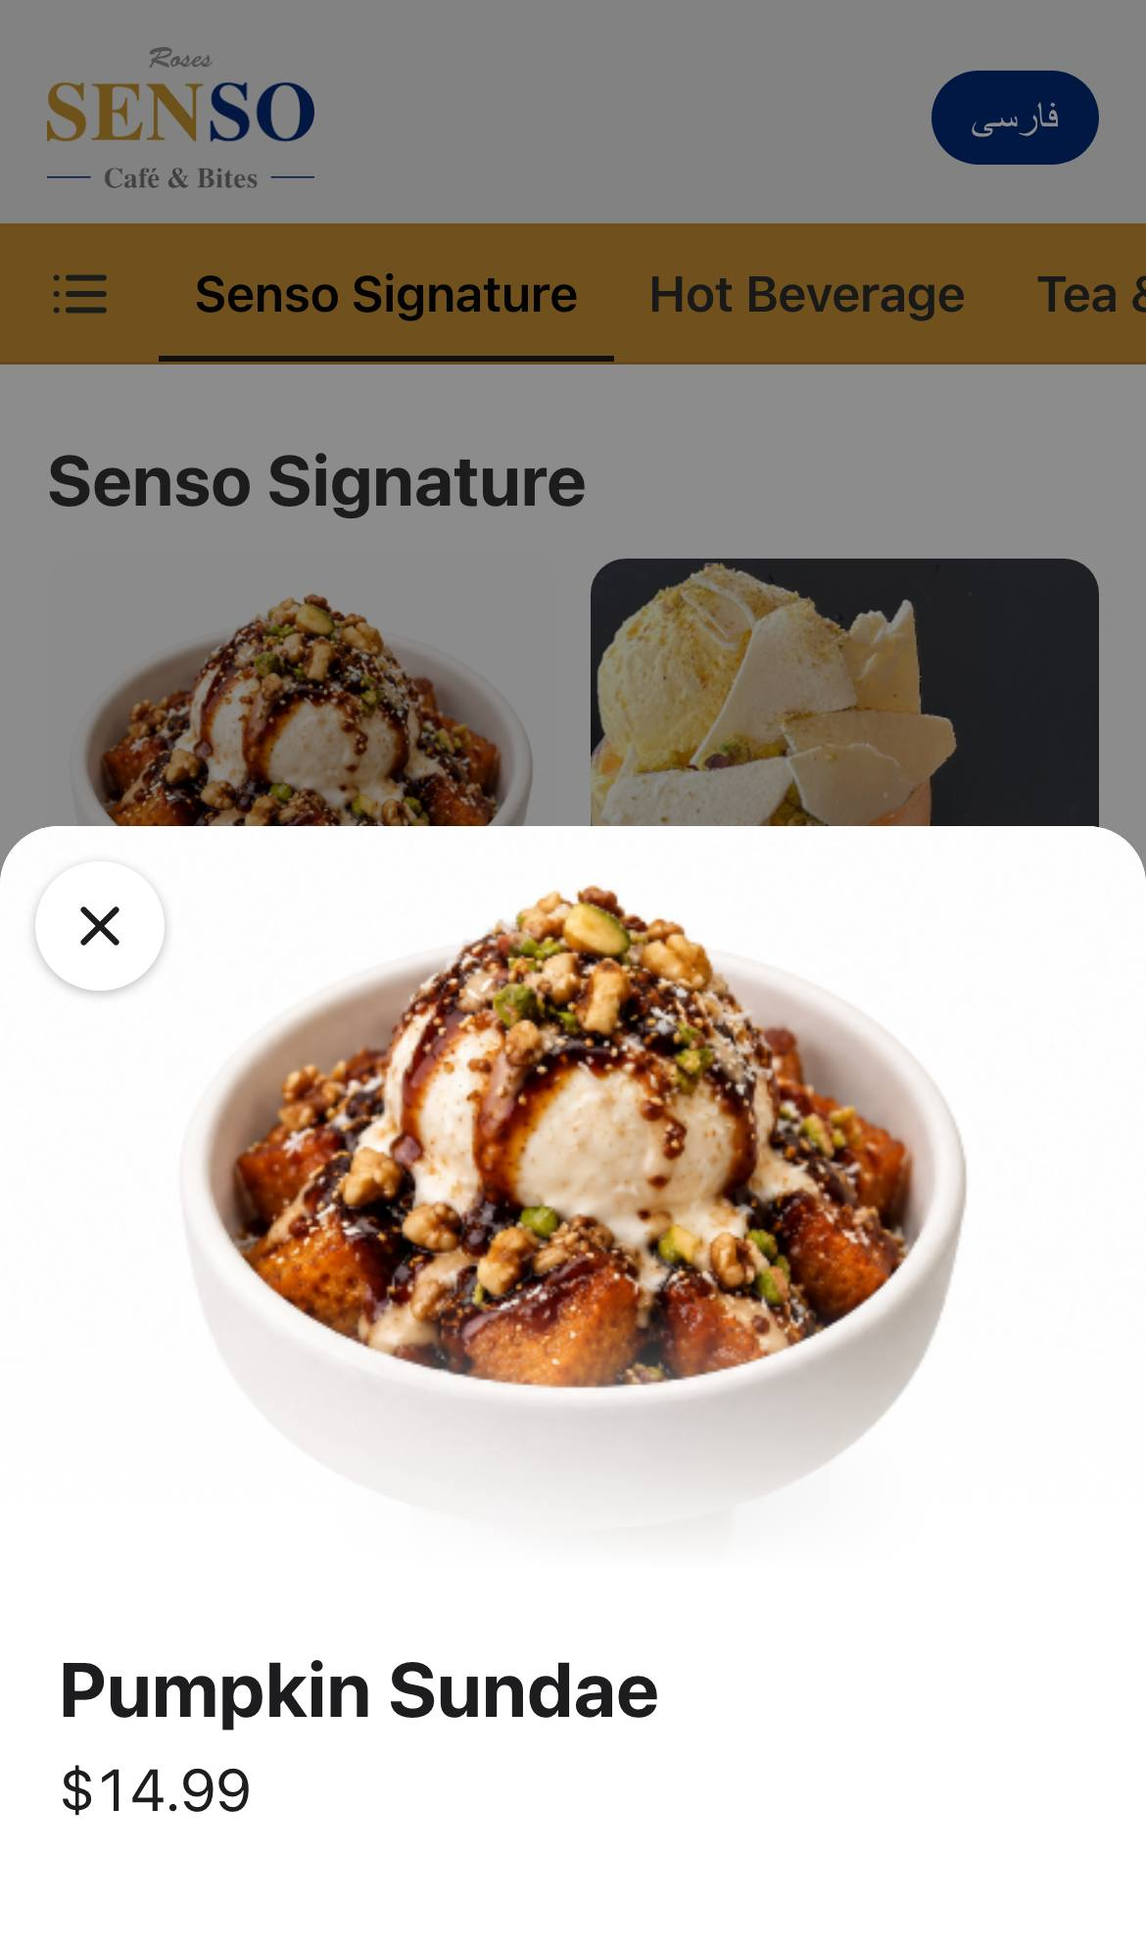
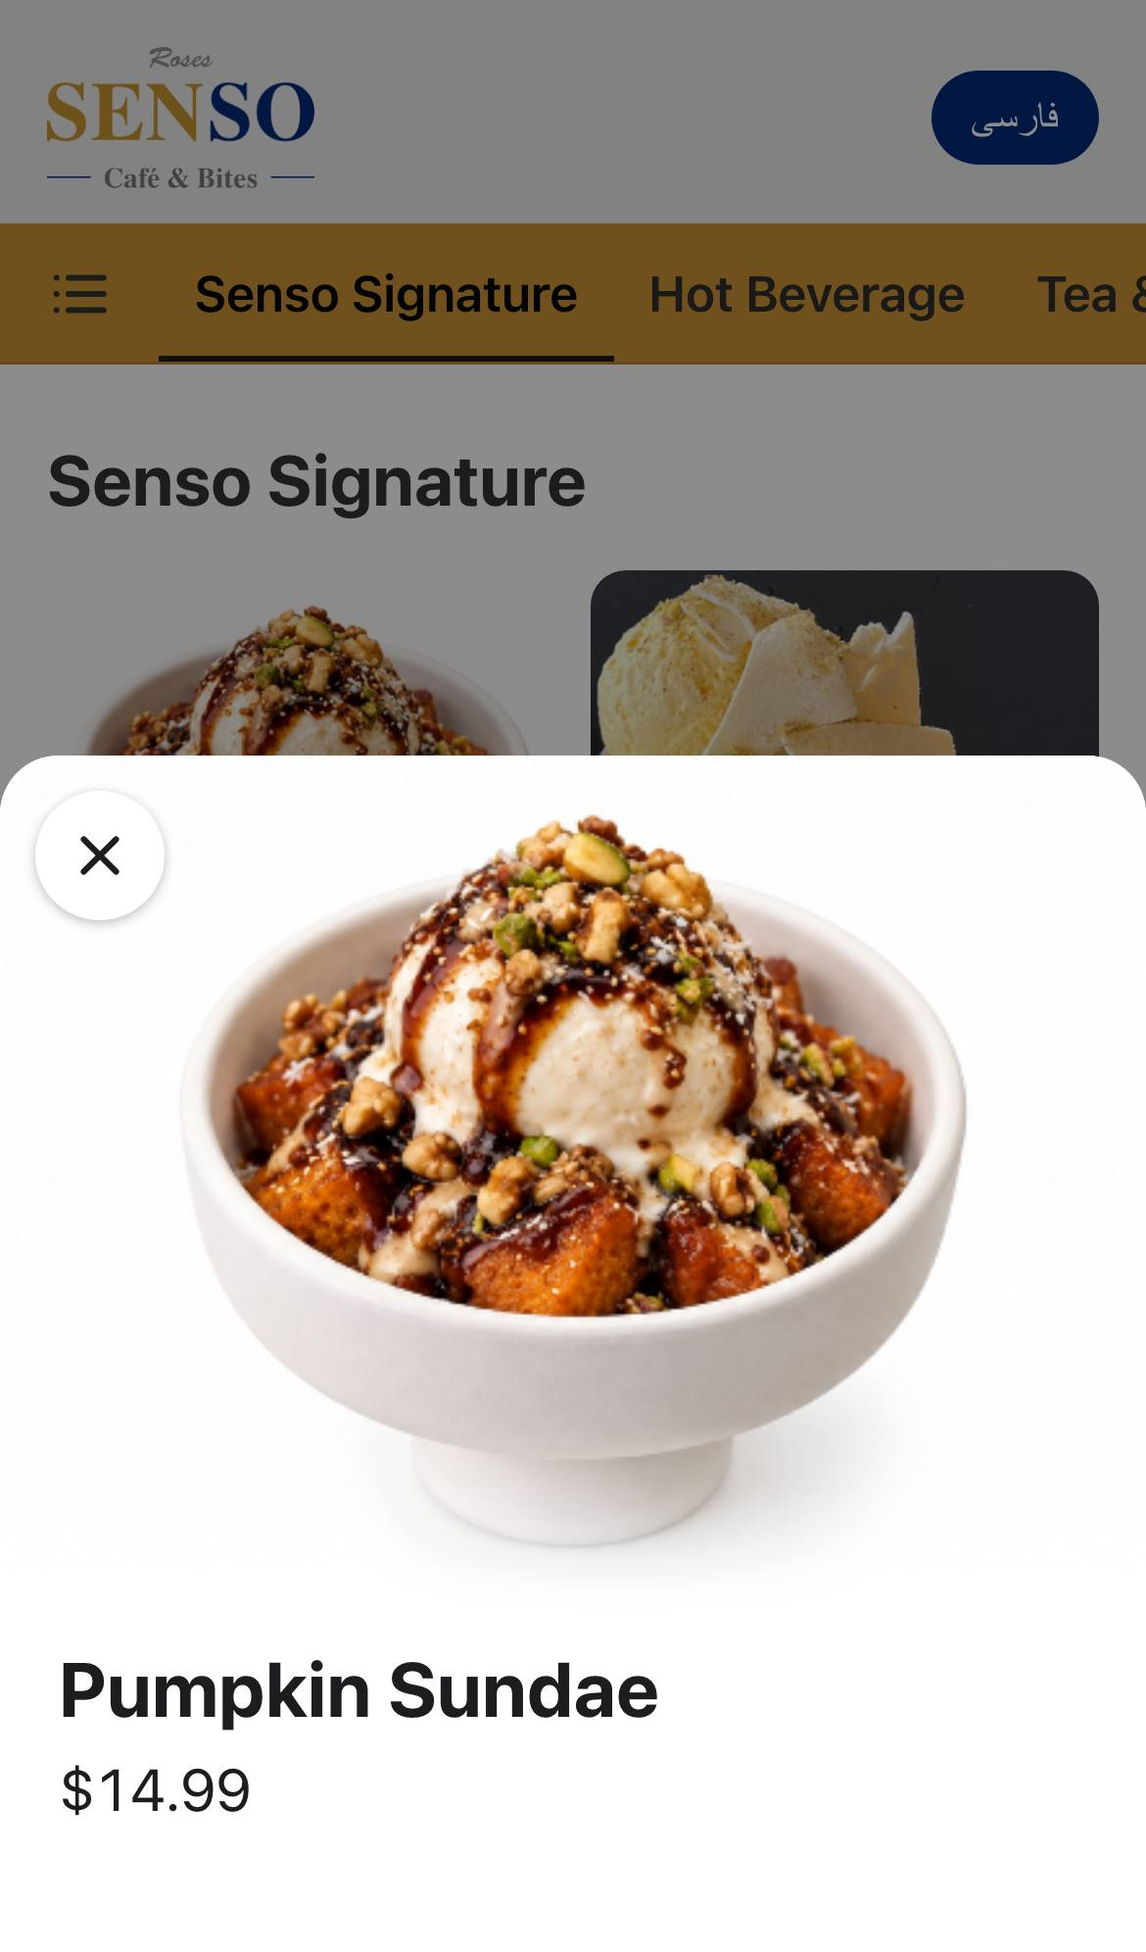
Item popup: a much lighter photo fade, and the owner's allergen, dietary and halal notes shown under "Good to know" (Kian, 2026-10-08)
The fade at the photo's bottom edge is now a plain linear gradient over the lower 22 % of the photo (64 px on a phone) with the title starting 12 px inside it; the first version shaded 45 % and reached full opacity at 70 % of its height, which Kian found too heavy. The notes the owner sets under Advanced (ruling 10) now reach the customers' page: the public query carries items.notes and the popup shows Halal / Not halal and each dietary word as chips, "Contains …" for the allergens and the note in both languages, only when set; nothing on rows or cards. Measured on Majoun in reports/sheet-motion (English and Persian). No new tokens, no runtime JavaScript, 0 colour literals.

Changed region(s): [[0.0, 0.2801, 1.0, 0.8092]]

diff --git a/src/components/menu-kit.tsx b/src/components/menu-kit.tsx
@@ -54,6 +54,7 @@ function Detail({ item }: { item: Item }) {
         <PriceLine item={item} big />
         {item.serves && <p className="mt-2"><Serves item={item} /></p>}
         <Bi as="p" text={item.description} className="mt-3 text-[16px] leading-relaxed text-(--c-sheet-body) whitespace-pre-line" />
+        <GoodToKnow item={item} />
         {item.variants.length > 0 && (
           <div className="mt-6">
             <h3 className="text-[17px] font-semibold text-(--c-sheet-title)"><span lang="en">Sizes</span><span lang="fa" dir="rtl">اندازهها</span></h3>
@@ -74,6 +75,25 @@ function Detail({ item }: { item: Item }) {
         )}
       </div>
     </template>
+  );
+}
+
+// The owner's allergen, dietary and halal notes (ruling 10: optional per item, set by the owner or an admin; Kian, 2026-10-08:
+// shown to customers in the popup). Only what is set appears: halal as a chip, each dietary word as a chip, the allergens as
+// "Contains …", then the free note in both languages. Nothing of it on the rows or cards.
+function GoodToKnow({ item }: { item: Item }) {
+  const n = item.notes;
+  if (!n) return null;
+  const chips = [...(n.halal === true ? [{ en: 'Halal', fa: 'حلال' }] : n.halal === false ? [{ en: 'Not halal', fa: 'غیر حلال' }] : []), ...n.dietary.map((d) => ({ en: d, fa: d }))];
+  const hasText = !!(n.text?.en || n.text?.fa);
+  if (!chips.length && !n.allergens.length && !hasText) return null;
+  return (
+    <div className="mt-5" data-notes>
+      <h3 className="text-[17px] font-semibold text-(--c-sheet-title)"><span lang="en">Good to know</span><span lang="fa" dir="rtl">نکات</span></h3>
+      {chips.length > 0 && <p className="mt-2 flex flex-wrap gap-1.5">{chips.map((c, i) => <span key={i} className="chip"><span lang="en">{c.en}</span><span lang="fa" dir="rtl">{c.fa}</span></span>)}</p>}
+      {n.allergens.length > 0 && <p className="mt-2 text-[15px] text-(--c-sheet-body)"><span lang="en">Contains {n.allergens.join(', ')}</span><span lang="fa" dir="rtl">حاوی {n.allergens.join('، ')}</span></p>}
+      {hasText && <Bi as="p" text={n.text} className="mt-2 text-[15px] leading-relaxed text-(--c-sheet-body) whitespace-pre-line" />}
+    </div>
   );
 }
 

diff --git a/src/styles/public.css b/src/styles/public.css
@@ -88,14 +88,15 @@ dialog.sheet.closing::backdrop { animation: dim-out .26s ease-in forwards; }
   dialog.sheet[open] { animation-name: sheet-in-centre; }
   dialog.sheet.closing { animation-name: sheet-out-centre; }
 }
-/* The photo (Kian, 2026-10-08): 4:3, dissolving into the sheet through a gradient to the sheet background over its lower
-   part; the title block starts inside the fully faded strip, so there is no hard crop edge above the text. */
+/* The photo (Kian, 2026-10-08): 4:3, its bottom edge softened by a short gradient to the sheet background (the lower 22 %
+   of the photo, a plain linear fade: Kian asked for much less shade than the first version, which covered 45 % and reached
+   full opacity at 70 % of its height); the title block starts 12 px inside the faded edge, so there is no hard crop line. */
 .sheet-top { position: relative; min-height: 64px; }
 .sheet-hero { position: relative; }
 .sheet-hero[hidden] { display: none; }
 .sheet-hero img { display: block; width: 100%; aspect-ratio: 4 / 3; object-fit: cover; background: var(--c-sheet-hero); }
-.sheet-hero::after { content: ""; position: absolute; left: 0; right: 0; bottom: 0; height: 45%; background: linear-gradient(to bottom, transparent, var(--c-sheet-bg) 70%, var(--c-sheet-bg)); pointer-events: none; }
-dialog.sheet.has-photo #sheet-content { position: relative; margin-top: -36px; }
+.sheet-hero::after { content: ""; position: absolute; left: 0; right: 0; bottom: 0; height: 22%; background: linear-gradient(to bottom, transparent, var(--c-sheet-bg)); pointer-events: none; }
+dialog.sheet.has-photo #sheet-content { position: relative; margin-top: -12px; }
 .sheet-close { position: absolute; top: 12px; left: 12px; display: grid; place-items: center; width: 44px; height: 44px; border-radius: 9999px; background: var(--c-sheet-close-bg); color: var(--c-sheet-close-icon); }
 [dir="rtl"] .sheet-close { left: auto; right: 12px; }
 /* Section list (Kian, 2026-10-08): the same slide as the item sheet, at most three quarters of the screen (the page and its tab

diff --git a/src/lib/menu.ts b/src/lib/menu.ts
@@ -19,7 +19,7 @@ export async function getPublicMenu(venueId: string, showDrafts: boolean): Promi
         and exists (select 1 from item_sections x join items i on i.id = x.item_id where x.section_id = s.id and i.listed)
       order by s.position`, [venueId]);
   const items = await query<Item & { section_id: string }>(
-    `select i.id, i.name, i.description, i.price, i.variants, i.add_ons, i.components, i.serves, i.photo, i.listed, i.fa_draft, x.position, x.section_id
+    `select i.id, i.name, i.description, i.price, i.variants, i.add_ons, i.components, i.serves, i.photo, i.notes, i.listed, i.fa_draft, x.position, x.section_id
        from item_sections x join items i on i.id = x.item_id
       where i.venue_id = $1 and i.listed
       order by x.position, i.name->>'en'`, [venueId]);

diff --git a/src/lib/types.ts b/src/lib/types.ts
@@ -16,7 +16,7 @@ export type Variant = { label: Bi; price: number | null };
 export type Component = { item_id: string | null; label: Bi; qty: number };
 export type Item = {
   id: string; name: Bi; description: Bi; price: number | null; variants: Variant[]; add_ons: AddOn[]; components: Component[];
-  serves: string | null; photo: Photo | null; listed: boolean; fa_draft: string[]; position: number;
+  serves: string | null; photo: Photo | null; notes: Notes; listed: boolean; fa_draft: string[]; position: number;
 };
 // How a section is shown to customers (Kian, 2026-10-08): 'list' = full-width rows with a small square photo; 'grid' = two columns with bigger photos.
 export type SectionLayout = 'list' | 'grid';

diff --git a/docs/runbook.md b/docs/runbook.md
@@ -39,7 +39,7 @@ npm run admin:create -- --email <your email> --name "<your name>"
 - **Photos** (step 2): *Add photo* / *Replace photo* in the item editor and in *+ Add item* opens the phone's camera or photos. The photo is shrunk on the phone (at most 1400 px, JPEG) and uploaded; linked photos from the import keep working and can be replaced or removed the same way. Uploads live on local disk (see *Uploads* below).
 - **Tap-to-edit** (step 2): inside the preview, tap an item to open its editor, a section heading to rename it, or the header to open the Details tab. The customers' page itself has none of this: the admin attaches it to the frame after it loads.
 - **Style** tab (rebuilt 2026-10-08; owner and admin, staff get 403 on its route): the page's colours, grouped by the parts customers see from top to bottom (Page, Header, Category tabs, Section headings, Item rows, Item popup, Footer, Intro; `src/venues/tokens.ts`), then a *Layout* group with the template's switches (logo animation, photos in the list; what the header shows on the default template; `src/venues/styles.ts`). Every colour has a plain label and a swatch; open a group, tap a colour, pick from the venue's own colours (the brand record), the phone's colour picker or a hex field. Text, hairlines and chips are *linked* to the background they sit on: "Auto" means they follow it (dark or light text for readability, dividers a light shade of it); a colour you set is "Custom" with *Back to auto*. The readability guard refuses a colour that would be hard to read (WCAG contrast 4.5:1 for text, 3:1 for headings and the tab underline) with the ratio, the threshold and a one-tap nearest colour that passes. The open group is outlined in the preview; tapping a part of the page in the preview opens its group. The controls on the left are the master (Kian, 2026-10-08): a tap in the preview is acted on once, and nothing that follows (a save, the data or the preview reloading) changes the open group or the open colour; a tap on the region of the group that is already open keeps the colour you had open. *Reset group to venue default* on each group and *Reset all colours* (with a confirmation) at the bottom; Undo works after both. Values are saved per venue (`venues.style.colors` plus the layout keys); the recorded brand colours are never changed and are the swatches.
-- **Item popup and section list** (Kian, 2026-10-08): the item popup slides up when an item is tapped and slides back down when it is closed (Close, a tap outside, Escape or Back); its photo is 4:3 and fades into the popup background under the title. The section list (the list icon in the tab bar) opens and closes the same way, has a Close button at the top on the language's start side, takes at most three quarters of the screen so the page stays visible behind it, scrolls inside, and closes while the page scrolls to the tapped section. Phones with reduced motion on get no animation.
+- **Item popup and section list** (Kian, 2026-10-08): the item popup slides up when an item is tapped and slides back down when it is closed (Close, a tap outside, Escape or Back); its photo is 4:3 with a short soft fade at its bottom edge, and the owner's allergen, dietary and halal notes (set under *Advanced* in the item editor) show in it under *Good to know*: Halal / Not halal and each dietary word as chips, "Contains …" for the allergens, then the note in both languages; nothing is shown when they are empty. The section list (the list icon in the tab bar) opens and closes the same way, has a Close button at the top on the language's start side, takes at most three quarters of the screen so the page stays visible behind it, scrolls inside, and closes while the page scrolls to the tapped section. Phones with reduced motion on get no animation.
 - **Section layout** (Kian, 2026-10-08; in the Style tab's *Layout* group, owner and admin): every section has a **List / Grid** switch. *List* is the full-width row with a small square photo; *Grid* shows the section as two columns of cards with a big square photo on top, the name and the price (Uber Eats-style; the description shows only in the popup), for sections such as juices, desserts or drinks where the photos sell. Same colours (the *Item rows* tokens), same item popup on tap; an item without a photo keeps the photo's place as a placeholder so the columns stay even. The choice is saved on the section (`sections.layout`, migration 005), shows in the preview at once with *Grid · Undo* / *List · Undo*, and is recorded like every other change. Staff cannot change it (the section route answers 403 for `layout`).
 - **Details** tab (step 2; owner and admin): name and tagline in both languages, the logo (upload from the phone; PNG or SVG with transparency looks best), locations (label, address, phone, hours; *To confirm* marks from the import clear when a field is edited or *Mark confirmed* is tapped; add and remove locations), and the switch *Show Persian drafts to customers*.
 - **+ Add venue** (step 2; owner and admin), in the venue dropdown: a name creates the venue on the **default template** with one empty section and opens its Details tab. Its customers' page is `/<id>` (the id is made from the English name) and is rendered on its first request, then regenerated on every save like the others.

diff --git a/reports/sheet-motion/README.md b/reports/sheet-motion/README.md
@@ -1,6 +1,6 @@
 # Item popup and section list: slide in, slide out, photo fade, shorter list (Kian, 2026-10-08)
 
-**Item popup.** Slides up from the bottom edge when an item opens (340 ms, ease-out) and slides back down before it closes (260 ms, ease-in; the script keeps the dialog open under a `.closing` class until the exit animation ends). Close, a tap on the dim, Escape and Back all animate out; the dim fades with it. The photo is 4:3 and dissolves into the popup through a gradient to the popup background over its lower 45 %; the title block starts 36 px inside the faded strip, so there is no hard crop edge above the text. Grid cards no longer carry the description, so the popup is where it reads.
+**Item popup.** Slides up from the bottom edge when an item opens (340 ms, ease-out) and slides back down before it closes (260 ms, ease-in; the script keeps the dialog open under a `.closing` class until the exit animation ends). Close, a tap on the dim, Escape and Back all animate out; the dim fades with it. The photo is 4:3; its bottom edge is softened by a short plain fade to the popup background over its lower 22 % (Kian, later the same day: the first version shaded 45 % of the photo and was too heavy), and the title block starts 12 px inside that edge, so there is no hard crop line. Grid cards no longer carry the description, so the popup is where it reads. The owner's allergen, dietary and halal notes (ruling 10) show in the popup under **Good to know**: Halal / Not halal and each dietary word as chips, "Contains …" for the allergens, then the note in both languages; nothing when they are empty.
 
 **Section list** (the list icon in the tab bar). Same slide in and out. A Close button at the top on the language's start side (left in English, right in Persian), the caption centred, the top row sticky. At most 75 % of the screen so the page and its tab bar stay visible behind it (more room to tap out), scrollable inside. A tap on a section starts the list's exit and the page's smooth scroll in the same frame.
 
@@ -10,9 +10,10 @@ Reduced motion: no animation, open and close at once. CSS and the kit's inline s
 
 | what | measured |
 |---|---|
-| popup opens | first frame 15 ms after the tap at translateY 383 px (its own height), settled at 0 after 331 ms; dim 0 → 0.45 |
-| popup look | `has-photo` set; photo 390 × 293 (4:3); gradient strip 132 px tall (`linear-gradient` to the popup background); content margin −36 px; title top 16 px above the photo's bottom edge; Close at 12 px from the left (English) and 12 px from the right (Persian) |
-| popup closes (Close button) | `.closing` from 55 ms after the tap, the dialog closed at 322 ms, slid to 359 px with the dim at 0.03 just before |
+| popup opens | first frame 13 ms after the tap at translateY 407 px (its own height), settled at 0 after 329 ms; dim 0 → 0.45 |
+| popup look | `has-photo` set; photo 390 × 293 (4:3); fade strip 64 px tall (22 % of the photo, `linear-gradient` from transparent to the popup background); content margin −12 px; title top 8 px below the photo's bottom edge; Close at 12 px from the left (English) and 12 px from the right (Persian) |
+| owner's notes (Majoun) | popup shows "Good to know" with the chips Halal and Vegan, "Contains NUTS" and the note; in Persian: نکات · حلال · Vegan · حاوی NUTS · the Persian note (a dietary word is shown as the owner typed it); an item without notes (Green Mojito) has no such block |
+| popup closes (Close button) | `.closing` from 49 ms after the tap, the dialog closed at 315 ms, slid to 382 px with the dim at 0.03 just before |
 | Escape · Back | both animate out; closed after 278 ms · 280 ms |
 | from a grid card | opens, `has-photo` set |
 | list opens | first frame 48 ms after the tap at translateY 498 px, settled after 364 ms |
@@ -21,4 +22,4 @@ Reduced motion: no animation, open and close at once. CSS and the kit's inline s
 | list closes (Close button) | `.closing` from 52 ms, closed at 323 ms |
 | reduced motion | the popup is at translateY 0 in its first open frame; Close closes it within one sample (101 ms) with no `.closing` phase |
 
-Screenshots: `sheet-open-en.jpg`, `sheet-open-fa.jpg`, `sheet-open-from-card.jpg`, `list-open-en.jpg`, `list-open-fa.jpg`, `list-tap-result.jpg`.
+Screenshots: `sheet-open-en.jpg`, `sheet-open-fa.jpg`, `sheet-open-from-card.jpg`, `sheet-notes-en.jpg`, `sheet-notes-fa.jpg`, `list-open-en.jpg`, `list-open-fa.jpg`, `list-tap-result.jpg`. The other rows of the table were re-measured on the same run (within a few ms of the first).

diff --git a/CLAUDE.md b/CLAUDE.md
@@ -99,7 +99,7 @@ If you see a material problem with this stack for these requirements, raise it u
 ## Style tab: controls as the master, section layout List / Grid (Kian, 2026-10-08, built)
 
 - Bug fixed: while a colour was being edited, the open group jumped to another group. Cause: the "open the group tapped in the preview" step ran again every time the tab's data reloaded after a save, so a group tapped earlier in the preview reopened over the one being edited. Now a preview tap is acted on exactly once, when it happens; a tap on the region of the group already open keeps the open colour; the outlined region is state owned by the editor and flows to both previews (laptop frame, phone overlay), so the preview always follows the controls and never the other way round. The suite's Style drill replays the scenario (preview tap, another group opened, a colour saved: the group and its colour stay open through the save and both reloads).
-- Item popup and section list motion (Kian, 2026-10-08, later): the item popup slides up from the bottom edge when an item opens and slides back down before it closes (Close, a tap on the dim, Escape and Back all animate out); the photo is 4:3 and dissolves into the popup through a gradient to the popup background, with the title starting inside the faded strip (no hard crop edge above the text); grid cards carry no description. The section list opens and closes with the same motion, has a Close button on the language's start side (left in English, right in Persian), takes at most three quarters of the screen (the page and its tab bar stay visible behind it) and scrolls inside; a tap on a section starts its exit and the page's smooth scroll together. Reduced motion: no animation. CSS and the kit's inline script only; no runtime JavaScript, no new tokens.
+- Item popup and section list motion (Kian, 2026-10-08, later): the item popup slides up from the bottom edge when an item opens and slides back down before it closes (Close, a tap on the dim, Escape and Back all animate out); the photo is 4:3 with a short soft fade at its bottom edge (Kian, later the same day: much less shade than the first version, which covered 45 % of the photo), the title starting 12 px inside it; grid cards carry no description. The owner's allergen, dietary and halal notes (ruling 10) now show to customers in the popup under "Good to know" (chips for Halal / Not halal and the dietary words, "Contains …" for the allergens, the note in both languages), only when set; the public query carries `items.notes`. The section list opens and closes with the same motion, has a Close button on the language's start side (left in English, right in Persian), takes at most three quarters of the screen (the page and its tab bar stay visible behind it) and scrolls inside; a tap on a section starts its exit and the page's smooth scroll together. Reduced motion: no animation. CSS and the kit's inline script only; no runtime JavaScript, no new tokens.
 - Section layout: every section is shown to customers as a **List** (the rows of 2026-10-07) or a **Grid** (two columns of cards with a big square photo, the name and the price, Uber Eats-style; the description shows only in the popup, Kian, same day), chosen per section in the Style tab's Layout group (owner and admin; staff get 403 on the field). Same colour tokens (Item rows), same item popup; an item without a photo keeps a placeholder so the columns stay even; the first two cards of the first section load their photo eagerly. Data-model change made for this: `sections.layout` text, 'list' | 'grid', default 'list' (migration 005), carried in the change records and by Undo. Alternative considered and rejected: a list of grid section ids inside `venues.style` (no migration, but the choice would not follow the section through delete, Undo and restore). Public pages still run without runtime JavaScript; no new dependency.
 
 ## Milestone 1 rules (Kian and the PM, 2026-10-07)
